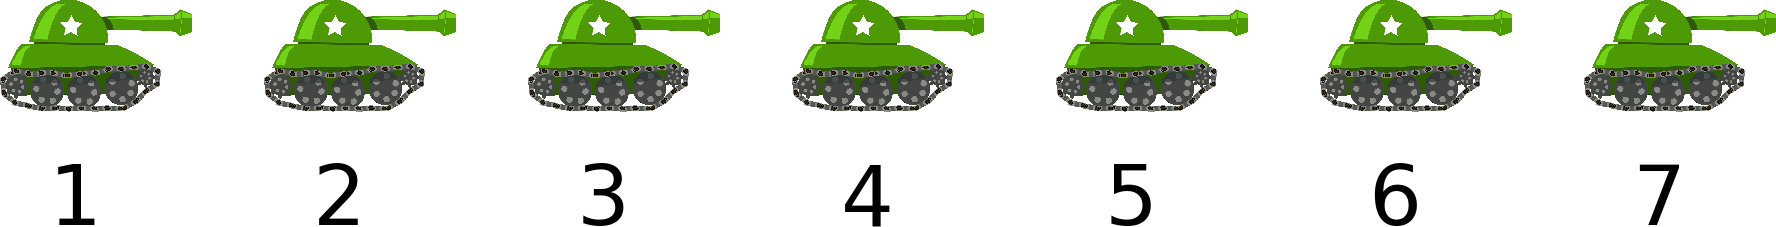
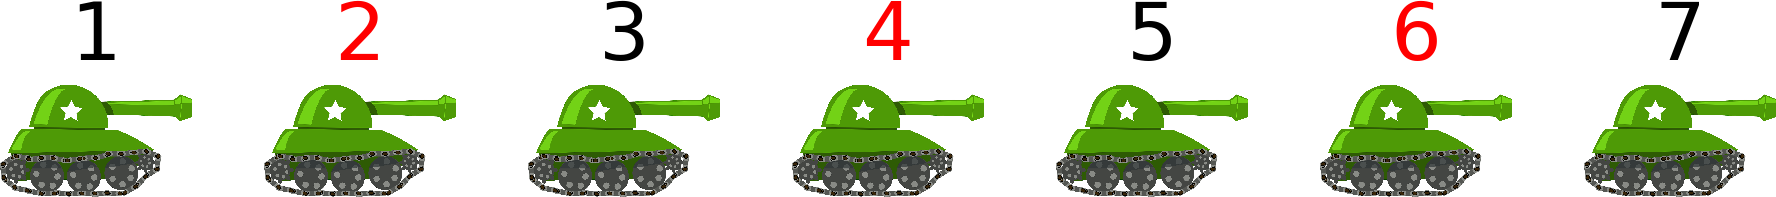
german tank post

diff --git a/_posts/2019-11-15-german-tank-problem.md b/_posts/2019-11-15-german-tank-problem.md
@@ -1,0 +1,202 @@
+---
+layout: post
+title: the German tank problem
+tags: [statistics, probability, combinatorics, estimation]
+snippet: The simplified German tank problem is as follows. During World War 2, the Germans labeled their tanks with sequential serial numbers. The Allied forces used the serial numbers on a captured subset of the German tanks (data!) to estimate the total number of tanks the Germans had.
+author: Cory Simon
+---
+
+The German tank problem [1] is intellectually stimulating and makes great conversation at wine bars. The problem has a historical context as well [2].
+
+During World War 2, the Germans inscribed their tanks with sequential serial numbers $1,2,...,n$ when they were manufactured. The total number of tanks $n$ that the Germans had, however, was unknown to the Allied forces-- and of great interest.
+
+The Allies captured a (assumed) random sample of $k$ tanks from the German forces (without replacement, of course) and observed their serial numbers, $x_1,x_2,...,x_k$. The German tank problem is to estimate the total number of tanks $n$ from the observed serial numbers $x_1,x_2,...,x_k$.
+
+
+{:.centerr}
+<figure>
+    <img src="/images/german_tank_problem/sample.png" alt="image" style="width: 75%;">
+    <figcaption>An outcome of a random sample (without replacement) of German tanks, serial numbers inscribed. Based on this observation, how many tanks do you estimate the Germans have?</figcaption>
+</figure>
+
+The number of tanks is of course greater than or equal to the maximum serial number observed: $n \geq \max x_i$. Given the sample above, estimating that the Germans have fewer than 156 tanks would be outrageous. However, estimating that the Germans have 156 tanks seems too conservative; this estimate assumes that we happened to capture the most recently manufactured tank. Intuitively, we should estimate the total number of tanks to be 156 *plus some number* to reflect the small likelihood that we captured the very last tank to come out of the factory (as opposed to not capturing it). How large should this number be?
+
+Let's delve into the math to answer this question, but feel free to skip to `# the unbiased estimator` if you want to know right away.
+
+# the data generating process (dgp)
+
+We are collecting a random sample from a population (the tanks) and making an observation about the members of the sample (the serial numbers). Think of tank capturing as a stochastic process governed by an underlying data generating process (dgp). The data here are the set of serial numbers $$\{x_1,x_2,...,x_k\}$$.
+
+Our stochastic model for tank capturing-- the dgp-- is a uniform random selection without replacement from the set of integers $$\{1,2,...,n\}$$. Because all viable outcomes (sets of observed serial numbers) are equally probable, the probability of any particular viable outcome, given we know $n$, is:
+
+$$P(\{x_1, x_2, ..., x_k\} | n)=\dfrac{1}{\binom{n}{k}}$$
+
+A viable outcome is one where $$x_i \in \{1, 2, ..., n\}$$ for all $$i\in \{1,2,...,k\}$$. So our dgp is governed by the probability distribution above, which is a uniform distribution over the sample space. The denominator is the cardinality of the sample space-- how many ways we can select $k$ integers from $n$ without replacement, where the order in which they were selected does not matter.
+
+# simulating the German tank problem in Julia
+
+We now simulate the dgp in the Julia programming language. For elegance, let's first define a data structure for a tank.
+
+```julia
+struct Tank
+    serial_no::Int
+end
+
+tank = Tank(4) # construct tank with serial number 4.
+```
+
+The following function uses the `sample` function in `StatsBase.jl` to simulate tank capture.
+
+```julia
+function capture_tanks(nb_tanks_captured::Int, nb_tanks::Int)
+    # random selection w./o replacement of integers 1,2,...,nb_tanks
+    serial_nos = sample(1:nb_tanks, nb_tanks_captured, replace=false)
+    # return array of tanks with these serial numbers
+    return [Tank(serial_no) for serial_no in serial_nos]
+end
+
+captured_tanks = capture_tanks(5, 300) # produces an array of tanks shown above
+```
+
+We'll use this function to simulate tank capture and assess the biasedness of different estimators for the number of tanks.
+
+# what is an estimator?
+
+In general, an *estimator* maps an outcome of a random experiment to an estimate of a parameter that characterizes the dgp. In the German tank problem, an outcome is the set of serial numbers on the tanks, $$\{x_1, x_2, ..., x_k\}$$, and we aim to estimate the total number of tanks, $n$, which fully characterizes the dgp (in addition to $k$). One estimator of $n$ for the German tank problem is the maximum observed serial number $m\equiv \max x_i$. 
+
+We aim to derive an *unbiased* estimator, meaning that, on average, the estimator recovers the true value of the parameter in the dgp. The average here is over the ensemble of possible outcomes generated by the dgp. 
+
+The maximum serial number $m$ is a biased estimator because it is either equal to the true value of $n$ or an underestimate. To show this, I ran 10,000 simulations of our dgp using the `capture_tanks` function with $n=100$ and $k=5$. The plot below shows the distribution of the estimated number of tanks using $m \equiv \max x_i$.
+
+{:.centerr}
+<figure>
+    <img src="/images/german_tank_problem/max_serial_no.png" alt="image" style="width: 75%;">
+    <figcaption>Using the maximum serial number as the estimator of $n$ yields a biased estimator; the average of the estimate over 10,000 simulations is less than the true number of tanks $n$.</figcaption>
+</figure>
+
+# persuing an unbiased estimator of $n$
+
+Let us proceed to derive an *un*biased estimator based on the maximum serial number observed, $m$. We will find out what number to add to $m$ to arrive at our unbiased estimate of $n$. 
+
+
+## the likelihood $Pr(M=m|n)$
+
+Let $M$ be the random variable that is the maximum serial number. Then, the probability that we see a certain max serial number $m$, conditioned on $n$, is:
+
+$$Pr(M=m|n) = \dfrac{\binom{m-1}{k-1}}{\binom{n}{k}}$$
+
+since, as the schematic below illustrates, there are $m-1$ choose $k-1$ distinct sets of $k$ serial numbers where the max number is $m$. All outcomes such that the max serial number is $m$ are independent events, so we can add up the probabilities of each event to arrive at the probability of seeing a max serial number of $m$ conditioned on $n$. This distribution petertains only to $m$ such that $n \geq m\geq k$ since the max serial number cannot be more than the total number of tanks or less than the number of captured tanks.
+
+{:.centerr}
+<figure>
+    <img src="/images/german_tank_problem/show_formula.png" alt="image" style="width: 75%;">
+    <figcaption>The number of outcomes such that the maximum serial number is $m$ is equal to the number of ways we can select the remaining $k-1$ tanks from the $m-1$ tanks preceding the tank with the  max serial number $m$.</figcaption>
+</figure>
+
+### a useful identity from the normalization of the probability mass function
+
+Since $n \geq m \geq k$:
+
+$$1= \sum_{m=k}^n Pr(M=m|n) = \sum_{m=k}^n \dfrac{\binom{m-1}{k-1}}{\binom{n}{k}}$$
+
+i.e. the probability that $m$ is (inclusive) between $k$ and $m$ is unity. This gives us an identity that we will use later.
+
+$$\binom{n}{k} = \sum_{m=k}^n \binom{m-1}{k-1}$$
+
+In words, intuitively, the cardinality of the sample space for the German tank problem is equal to the number of outcomes where the max serial number is $k$ plus where it is $k+1$ and so on, up to $n$.
+
+## the expected value of the max serial number, $E(M=m\|n)$
+
+Now let us find the expected value of $M$ over the outcomes of our dgp. 
+
+$$E(M | n) = \displaystyle \sum_{m=k}^n m Pr(M=m|n)$$
+
+We're conditioning on knowing $n$, which seems awkward because the whole point of the German tank problem is that we don't know $n$. Our strategy here is to find $E(M \| n)$, then find what $n$ gives an expected value of $M$ equal to the $m$ we oberved. This gives an unbiased estimator for $n$. Using our earlier expression for $Pr(M=m\|n)$:
+
+$$E(M | n) = \sum_{m=k}^n m \frac{\binom{m-1}{k-1}}{\binom{n}{k}}$$
+
+The sum is over $m$, so we can pull the denominator outside of the sum. Also, we can write this as a sum over combinations by absorbing the $m$ into the factorial and multiplying by one in a fancy way:
+
+$$E(M | n) = \dfrac{1}{\binom{n}{k}} \sum_{m=k}^n \frac{k}{k} m \frac{(m-1)!}{(k-1)!(m-k)!}$$
+
+$$E(M | n) = \dfrac{k}{\binom{n}{k}} \sum_{m=k}^n \frac{m!}{k!(m-k)!}$$
+
+$$E(M | n) = \dfrac{k}{\binom{n}{k}} \sum_{m=k}^n \binom{m}{k}$$
+
+To apply our identity above, we use a change of variables in our sum. Define $\tilde{m}$ and $\tilde{k}$ such that $\tilde{m}-1=m$ and $\tilde{k}-1=k$. Then the sum over $\tilde{m}$ is from $\tilde{k}$ to $n+1$:
+
+$$E(M | n) = \dfrac{k}{\binom{n}{k}} \sum_{\tilde{m}=\tilde{k}}^{n+1} \binom{\tilde{m}-1}{\tilde{k}-1}$$
+
+We can now directly invoke our identity:
+
+$$\sum_{\tilde{m}=\tilde{k}}^{n+1} \binom{\tilde{m}-1}{\tilde{k}-1} = \binom{n+1}{\tilde{k}}=\binom{n+1}{k+1}$$
+
+and simplify the expression for $E(M \| n)$:
+
+$$E(M | n) = \dfrac{k}{\binom{n}{k}} \binom{n+1}{k+1}$$
+
+which, upon expanding the combinations into factorials and canceling terms:
+
+$$E(M | n) = \dfrac{k}{k+1}(n+1)$$
+
+For $k=5$, we get $E(M \| n=100)$ is c.a. 84.2, comparable to our simulation above.
+
+## an unbiased estimator
+
+We obtain an unbiased estimator for $n$, $\hat{n}$, by solving the expression above for $E(M \| n)$ for $n$ and replacing $E(M \| n)$ with our observation for $m=\max x_i$. That is, our estimate for the total number of German tanks is the $n$ such that the expected value of $M$ under the data generating process is equal to our observed $m$. We arrive at:
+
+$$\hat{n} = m + \left(\frac{m}{k} - 1\right)$$
+
+Indeed, the estimate of the total number of tanks is the maximum serial number observed plus some number to reflect how unlikely it is to select the most recently manufactured tank (as opposed to missing it). Intuitively, this number gets larger as $m$ gets larger and as $k$ gets smaller. 
+
+This estimator $\hat{n}$ has a very intuitive interpretation. Imagine placing all of the tanks in a line, from 1 to $n$. Then imagine if the tanks we captured were evenly spaced, i.e. had equal gaps of unobserved tanks between them (including the end). The number that we add to $m$ to arrive at the estimate, $m/k-1$, is the gap between the tanks that would be present if the samples were evenly spaced!
+
+{:.centerr}
+<figure>
+    <img src="/images/german_tank_problem/seven_tanks.png" alt="image" style="width: 75%;">
+    <figcaption>If the $k$ captured tanks are evenly spaced among the $m$ total tanks, then the gap between them is $m/k-1$. Consider $n=7$ and $k=3$ with captured tanks labeled red. </figcaption>
+</figure>
+
+The estimator $\hat{n}$ for the total number of tanks is unbiased. To see this, I ran 10,000 simulations of the dgp with $n=100$ and $k=5$ using the `capture_tanks` function, then used $\hat{n}$ above to estimate the number of tanks from the max serial number. The distribution of the estimated number of tanks for this estimator is shown below.
+
+{:.centerr}
+<figure>
+    <img src="/images/german_tank_problem/max_serial_no_plus_gap_if_evenly_spaced.png" alt="image" style="width: 75%;">
+    <figcaption>The estimator $\hat{n}$ above is unbiased since, over many simulations, its average value is the true number of tanks.</figcaption>
+</figure>
+
+One can also show that the estimator $\hat{n}$ is *efficient*, meaning that it exhibits the smallest variance among all other unbiased estimators. 
+
+Another desirable property of an estimator is *consistency*. Loosely, this means the distribution of the estimator will tighten in on the true value of $n$ as $k$ increases. As we capture more tanks (increase $k$), we become more and more likely to correctly estimate $n$. In the extreme case $k=n$, we will of course always correctly estimate $n$. Below, I show the distribution of the estimated number of tanks $\hat{n}$ among 10,000 simulations ($n=100$) for several different values of $k$. Indeed, the distribution narrows in on the true number of tanks, suggesting that this estimator is consistent.
+
+{:.centerr}
+<figure>
+    <img src="/images/german_tank_problem/consistency.png" alt="image" style="width: 75%;">
+    <figcaption>Computationally exploring the consistency of $\hat{n}$. The distribution of the estimated number of tanks narrows in on the true number of tanks as we capture more tanks.</figcaption>
+</figure>
+
+# confidence intervals
+
+Our estimate $\hat{n}$ is a point estimate. In an interval estimate, we desire to give an interval in which the true number of tanks will fall, with a specified confidence. The idea behind "confidence" is as follows. Say the maximum serial number we observed is $m=100$ with a sample of $k=10$. Also say one proposes that the Germans have 10,000 tanks. It could totally be true that we happened to capture only from within the first 100 tanks of the 10,000; we cannot disprove it from our sample. However, given that $n=10,000$, it is an unlikely outcome that all $k=10$ tanks were sampled from only the first 100 of the 10,000 tanks; it is more likely to have a larger max serial number than 100 if there were 10,000 tanks. This gives us some confidence that the Germans have less than 10,000 tanks.
+
+The box plots below visualize the distribution of $\hat{n}$ over 100,000 simulations for a series of $n$, simulated using the `capture_tanks` function. The blue horizontal line is the point estimate $\hat{n}$ for $k=10$ and $m=100$. Based on the box plots, which break the distributions into quantiles, only 25% of the time would we see $\hat{n}$ below what we observe when $n=135$. Thus, based on our observation $m=100$ with $k=10$ captured tanks, we could reject the null hypothesis that $n=135$ at a level of significance of 25%, since it is unlikely that the serial number would be so low (100) if there were 135 tanks. Therefore, if $m=100$ and $k=10$, we would say that the number of tanks the Germans have is less than 135 with 25% confidence.
+
+{:.centerr}
+<figure>
+    <img src="/images/german_tank_problem/confidence.png" alt="image" style="width: 75%;">
+    <figcaption>A series of box plots shows the distribution of $\hat{n}$ over 100,000 simulations. The triangle symbol shows the mean. The blue horizontal line is $\hat{n}$ for when $k=10$ and $m=100$.</figcaption>
+</figure>
+
+
+# what I'm exploring next
+* using the Bayesian framework to estimate the number of tanks
+* proove that $\hat{n}$ is the minimum variance unbiased estimator (that it is an efficient estimator)
+* learn probabilistic programming in the context of the German tank problem
+
+# references
+
+[1] Goodman LA. Serial number analysis. Journal of the American Statistical Association. 1952
+
+[2] Ruggles R, Brodie H. An empirical approach to economic intelligence in World War II. Journal of the American Statistical Association. 1947
+
+[3] KC Border's Introduction to Probability and Statistics notes http://www.math.caltech.edu/~2016-17/2term/ma003/Notes/Lecture18.pdf
